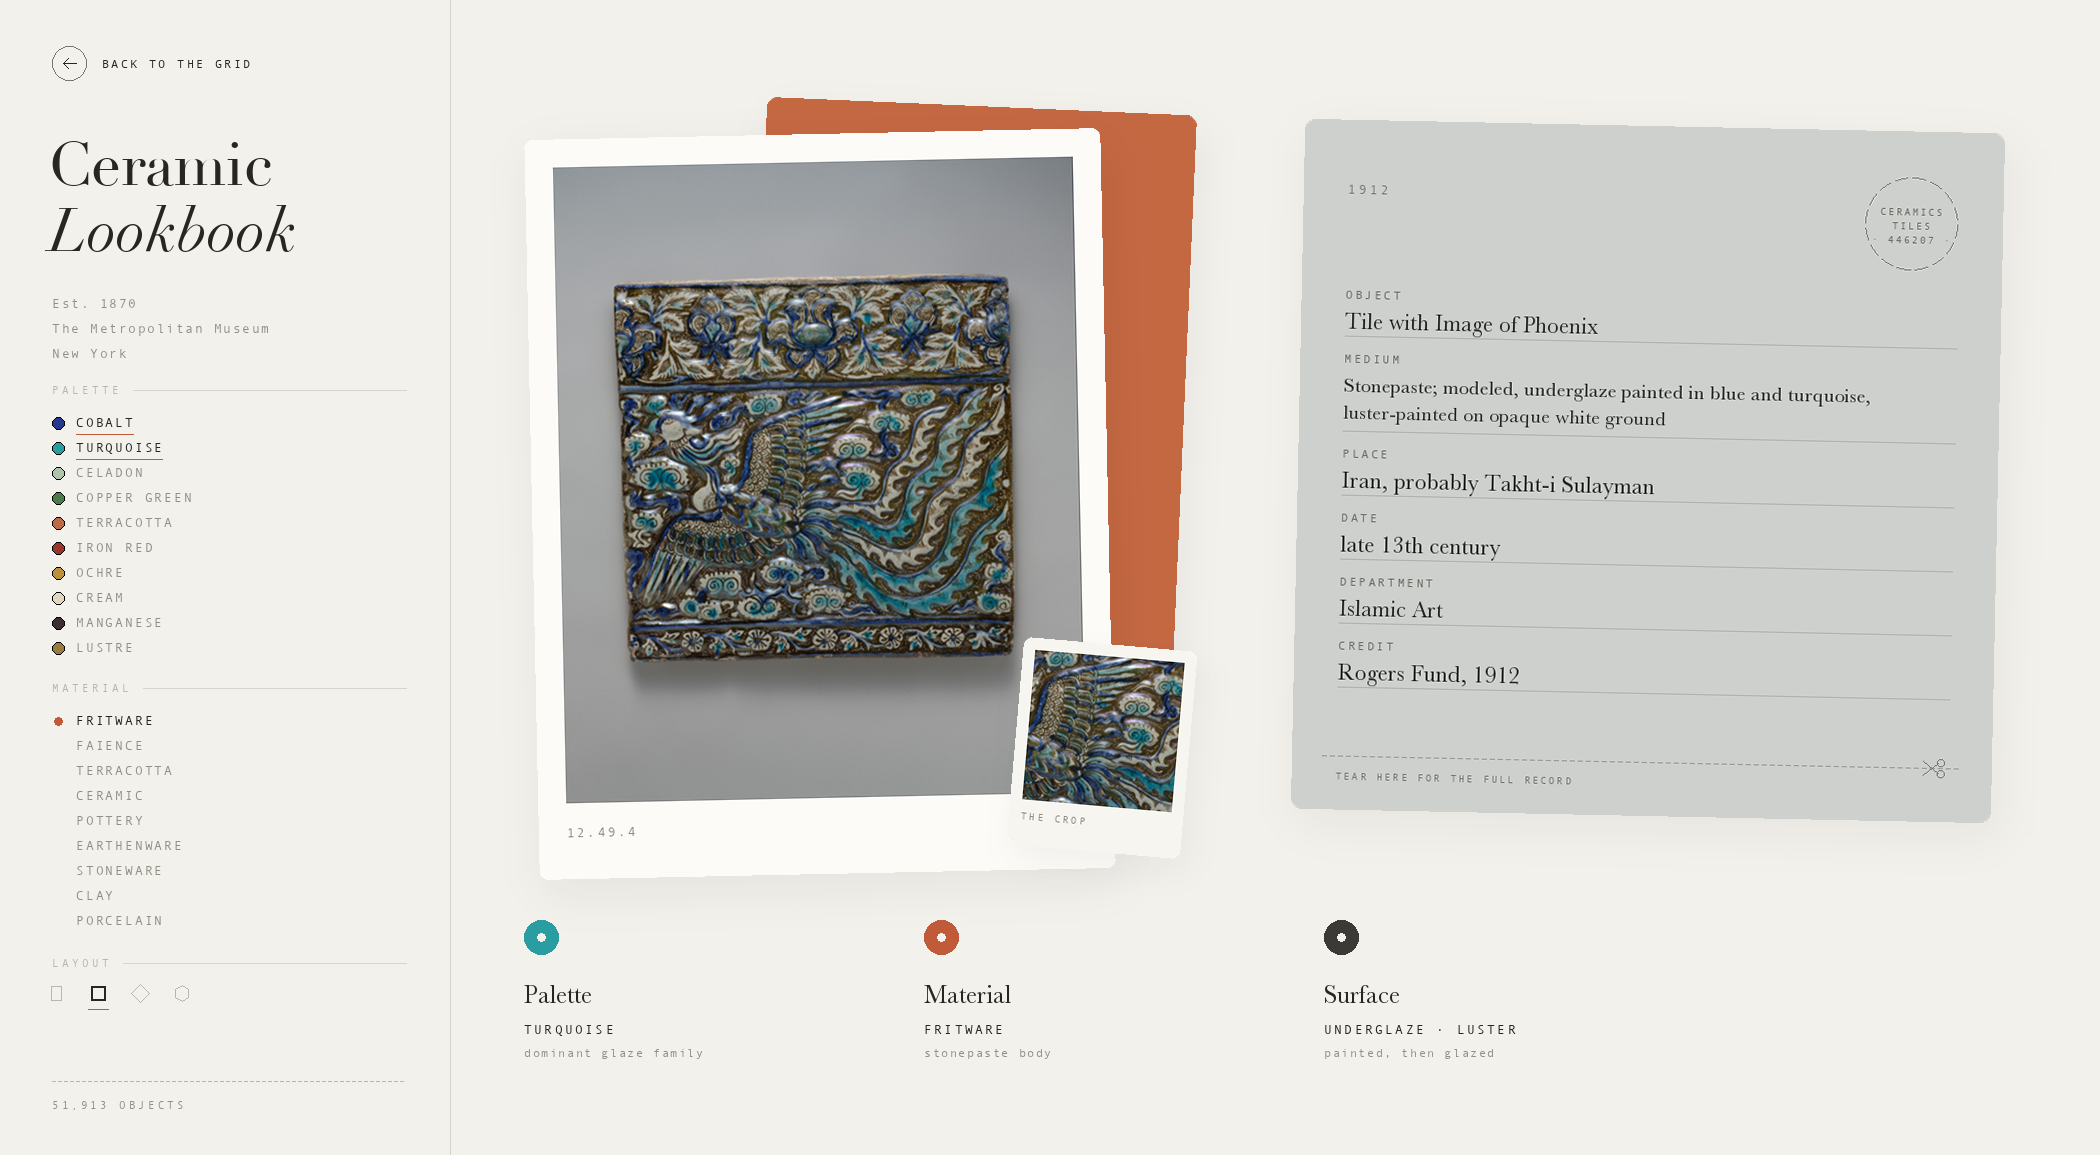
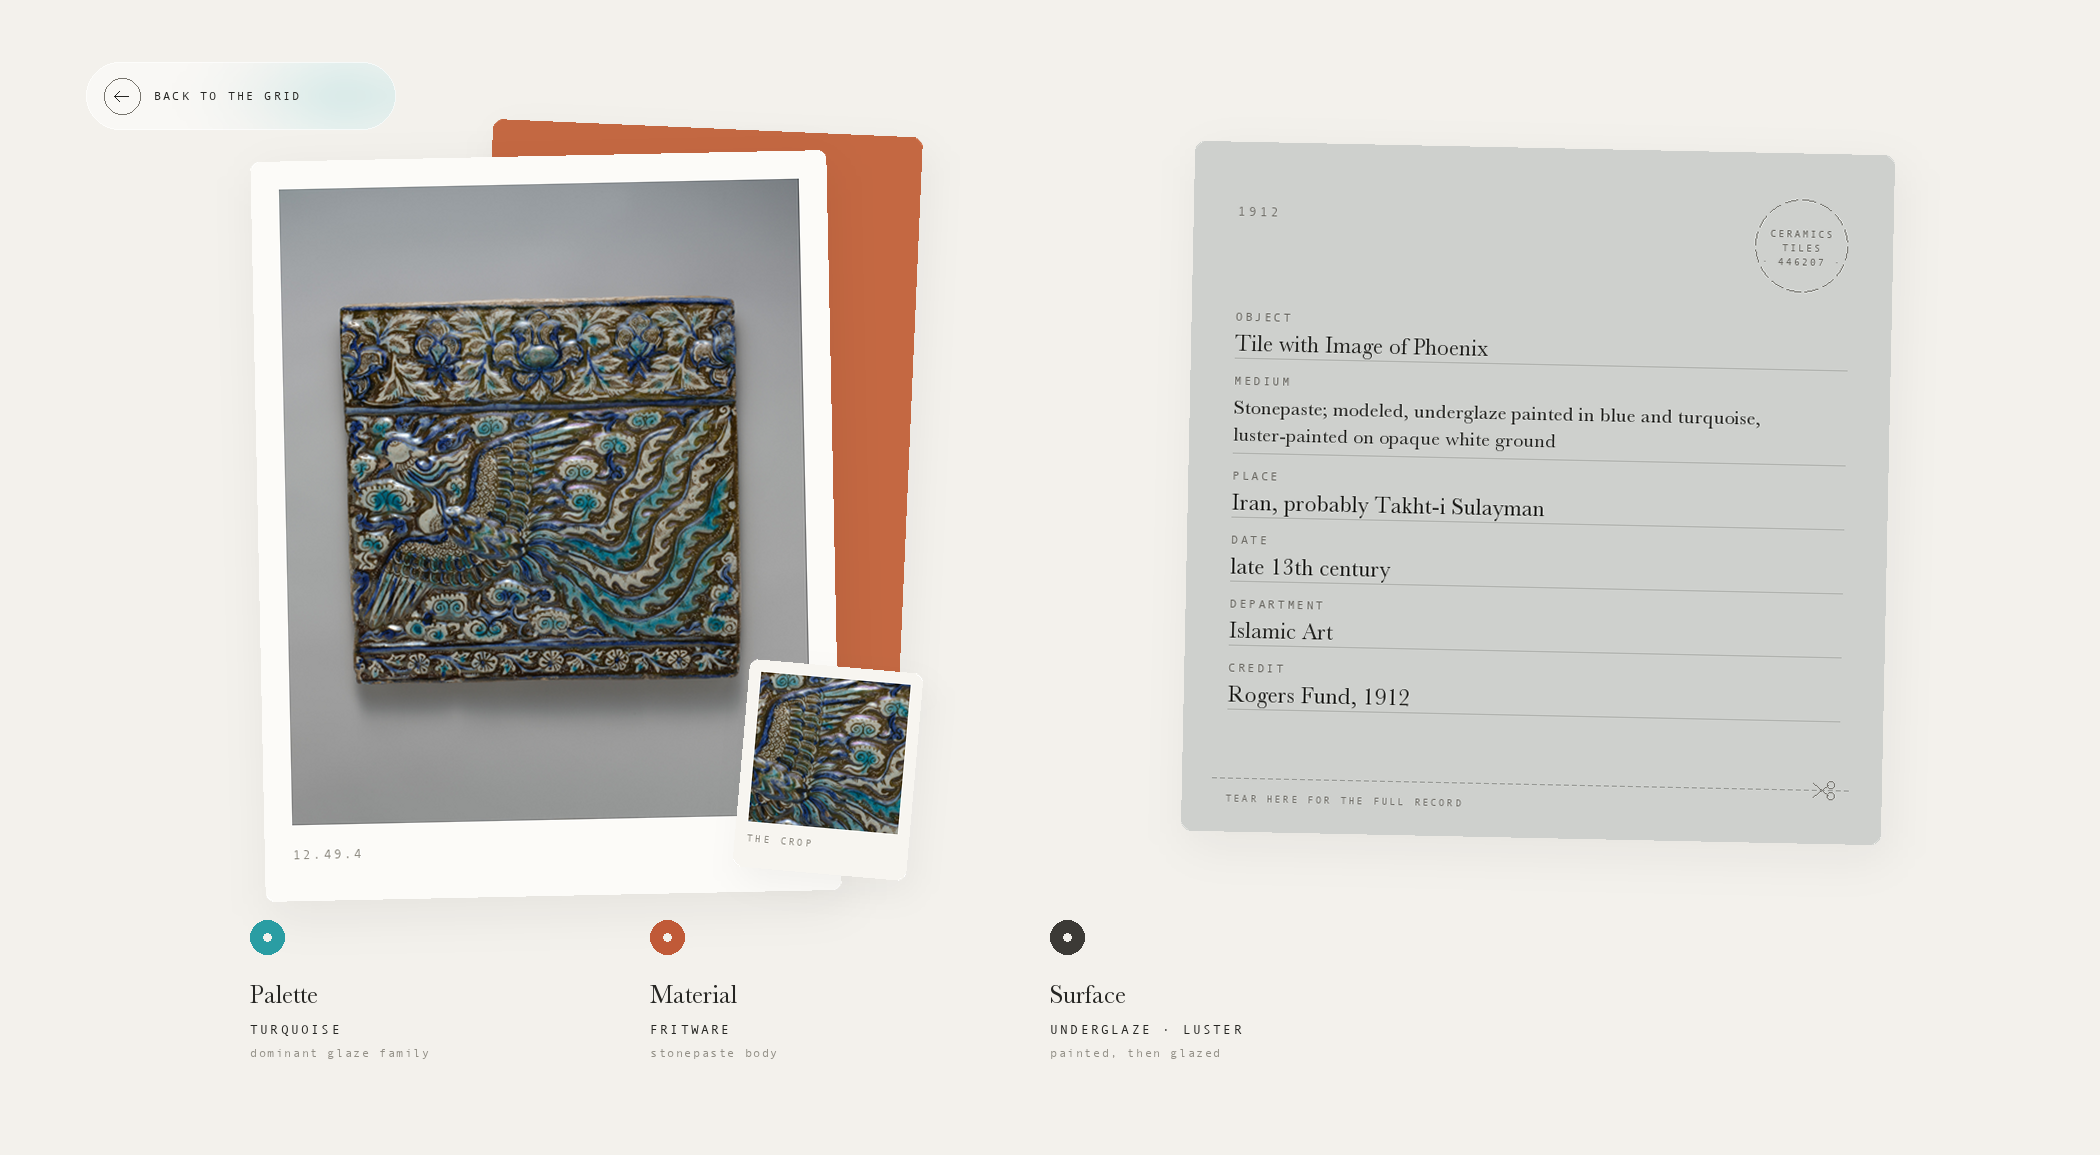
Replace the fixed sidebar with floating, scattered modules
Navigation is now frosted panels placed asymmetrically over the grid — a
title module, a staggered cluster of palette cards, material, layout and
sort modules — rather than a docked rail.

This is also what finally lets chrome sit on the imagery. The earlier
attempt used a flat dark scrim and went muddy, because a scrim only dims a
busy mosaic, it does not quiet it. A heavy backdrop blur does, by destroying
the high-frequency detail that made the field noisy. Blur, not opacity, is
the mechanism.

Each palette card carries a diffuse bloom of its own glaze colour, so the
filter is a cloud of the pigment rather than a swatch beside a word. Bloom
intensity is luminance-compensated or the pale families — cream, celadon,
lustre — vanish into the panel while cobalt and manganese shout.

The palette cards deliberately show no counts. Colour extraction is stage 4
and has not run, and inventing plausible numbers is how a mockup starts
lying. The material module shows real stage 1 counts from mine_summary.json.
An earlier draft of this commit had fabricated palette counts in it; they
are gone.

The detail view drops its sidebar for a floating back pill and shifts left
into the freed space.

diff --git a/pipeline/preview.py b/pipeline/preview.py
@@ -87,6 +87,9 @@ def font(kind, size):
             return ImageFont.truetype(SUP + "Baskerville.ttc", size)
         if kind == "serif-italic":
             return ImageFont.truetype(SUP + "Baskerville.ttc", size, index=1)
+        if kind == "sans":
+            return ImageFont.truetype("/System/Library/Fonts/Helvetica.ttc",
+                                      size)
         if kind == "display":
             return ImageFont.truetype(SUP + "Didot.ttc", size)
         if kind == "display-italic":
@@ -162,6 +165,159 @@ def extract_images(dest):
     d = os.path.join(dest, "resize_crops")
     return [os.path.join(d, n) for n in sorted(os.listdir(d))
             if n.endswith(".png")]
+
+
+# --- floating modules --------------------------------------------------------
+# The chrome is a set of frosted panels scattered over the grid rather than a
+# fixed rail. This is what finally lets chrome sit ON the imagery: an earlier
+# attempt used a flat dark scrim and went muddy, because a scrim only dims a
+# busy mosaic -- it does not quiet it. A heavy backdrop blur does, by
+# destroying the high-frequency detail that made it noisy in the first place.
+
+def rounded_mask(size, radius):
+    m = Image.new("L", size, 0)
+    ImageDraw.Draw(m).rounded_rectangle([0, 0, size[0] - 1, size[1] - 1],
+                                        radius, fill=255)
+    return m
+
+
+def bloom(size, cx, cy, radius, rgb, peak=150):
+    """Diffuse radial colour cloud, the reference's signature."""
+    n = 48
+    g = Image.new("RGBA", (n, n), rgb + (0,))
+    px = g.load()
+    for yy in range(n):
+        for xx in range(n):
+            dx = (xx + .5) / n - cx
+            dy = (yy + .5) / n - cy
+            t = max(0.0, 1.0 - math.hypot(dx, dy) / radius)
+            px[xx, yy] = rgb + (int(peak * t * t),)
+    return g.resize(size, Image.BICUBIC).filter(
+        ImageFilter.GaussianBlur(size[0] / 14))
+
+
+def panel(canvas, box, radius=22, tint=235, blooms=()):
+    """Frosted glass over whatever the grid is showing underneath."""
+    x0, y0, x1, y1 = box
+    size = (x1 - x0, y1 - y0)
+    region = canvas.crop(box).convert("RGBA")
+    region = region.filter(ImageFilter.GaussianBlur(26))
+    region = Image.alpha_composite(
+        region, Image.new("RGBA", size, (250, 249, 246, tint)))
+    for rgb, cx, cy, r, peak in blooms:
+        region = Image.alpha_composite(region,
+                                       bloom(size, cx, cy, r, rgb, peak))
+    mask = rounded_mask(size, radius)
+    canvas.paste(region, (x0, y0), mask)
+    edge = Image.new("RGBA", size, (0, 0, 0, 0))
+    ImageDraw.Draw(edge).rounded_rectangle(
+        [0, 0, size[0] - 1, size[1] - 1], radius,
+        outline=(255, 255, 255, 165), width=1)
+    canvas.alpha_composite(edge, (x0, y0))
+    return ImageDraw.Draw(canvas, "RGBA")
+
+
+def fitted(d, text, kind, size, max_w, floor=15):
+    """Largest size at or below `size` that fits `max_w`."""
+    while size > floor:
+        f = font(kind, size)
+        if d.textlength(text, font=f) <= max_w:
+            return f
+        size -= 1
+    return font(kind, floor)
+
+
+def centred(d, cx, y, text, f, fill, track=0.0):
+    w = tracked_w(d, text, f, track) if track else d.textlength(text, font=f)
+    if track:
+        tracked(d, (cx - w / 2, y), text, f, fill, track)
+    else:
+        d.text((cx - w / 2, y), text, font=f, fill=fill)
+
+
+def load_counts():
+    """Real per-material counts from stage 1, never invented."""
+    try:
+        with open(os.path.join(HERE, "data", "mine_summary.json")) as f:
+            return json.load(f)["by_type"]
+    except Exception:
+        return {}
+
+
+def draw_float_chrome(canvas, W, H):
+    """Scattered, modular navigation. Nothing is docked to an edge."""
+    # --- title module ---
+    box = (86, 74, 566, 286)
+    d = panel(canvas, box, 24, 232,
+              blooms=[((42, 157, 163), .78, .28, .62, 120)])
+    d.text((122, 106), "Ceramic", font=font("display", 44), fill=INK)
+    d.text((124, 154), "Lookbook", font=font("display-italic", 44), fill=INK)
+    total = sum(load_counts().values()) or 51913
+    tracked(d, (122, 222), f"{total:,} OBJECTS  ·  OPEN ACCESS",
+            font("mono", 12), (108, 106, 100), 2.0)
+    tracked(d, (122, 246), "THE METROPOLITAN MUSEUM OF ART", font("mono", 12),
+            MUTED, 2.0)
+
+    # --- palette cluster: five across, two down ---
+    cw, chh, gap = 158, 134, 15
+    x0, y0 = 86, 330
+    for i, (name, rgb) in enumerate(PALETTE):
+        # slight vertical stagger so the cluster reads as scattered modules
+        # rather than as a table
+        cx0 = x0 + (i % 5) * (cw + gap)
+        cy0 = y0 + (i // 5) * (chh + gap) + (10 if i % 2 else 0)
+        on = i in (0, 1)
+        # pale families need a stronger bloom to register at all
+        lum = (rgb[0] * .299 + rgb[1] * .587 + rgb[2] * .114) / 255
+        peak = int((168 if on else 124) * (1 + 0.75 * lum))
+        d = panel(canvas, (cx0, cy0, cx0 + cw, cy0 + chh), 18,
+                  242 if on else 226,
+                  blooms=[(rgb, .5, .33, .60, peak)])
+        mid = cx0 + cw // 2
+        label = name.title()
+        centred(d, mid, cy0 + 78, label,
+                fitted(d, label, "serif", 23, cw - 26), INK)
+        if on:
+            d.ellipse([cx0 + cw - 26, cy0 + 13, cx0 + cw - 14, cy0 + 25],
+                      fill=ACCENT)
+    # No per-family counts: colour extraction is stage 4 and has not run.
+    # Inventing plausible numbers for a preview is how a mockup starts lying.
+
+    # --- material module ---
+    box = (W - 466, 74, W - 86, 560)
+    d = panel(canvas, box, 24, 234,
+              blooms=[((188, 106, 72), .24, .82, .66, 104)])
+    tracked(d, (W - 430, 108), "MATERIAL", font("mono", 11), MUTED, 3.0)
+    counts = load_counts()
+    yy = 148
+    for mat in MATERIALS:
+        on = mat == "fritware"
+        if on:
+            d.ellipse([W - 432, yy + 7, W - 422, yy + 17], fill=ACCENT)
+        d.text((W - 402, yy), mat.title(), font=font("serif", 22),
+               fill=INK if on else (128, 126, 120))
+        n = counts.get(mat)
+        if n:
+            txt = f"{n:,}"
+            w = tracked_w(d, txt, font("mono", 12), 1.6)
+            tracked(d, (W - 118 - w, yy + 8), txt, font("mono", 12),
+                    MUTED, 1.6)
+        yy += 43
+
+    # --- layout module ---
+    box = (W - 466, 596, W - 200, 742)
+    d = panel(canvas, box, 20, 232,
+              blooms=[((120, 130, 150), .7, .7, .6, 92)])
+    tracked(d, (W - 430, 626), "LAYOUT", font("mono", 11), MUTED, 3.0)
+    draw_layout_dial(d, W - 428, 674, active=1)
+
+    # --- sort module, small ---
+    box = (86, 640, 372, 748)
+    d = panel(canvas, box, 20, 232,
+              blooms=[((186, 143, 62), .8, .35, .6, 96)])
+    tracked(d, (118, 668), "SORTED BY", font("mono", 11), MUTED, 3.0)
+    d.text((118, 692), "Hue", font=font("serif", 26), fill=INK)
+    tracked(d, (176, 702), "· then lightness", font("mono", 12), MUTED, 1.4)
 
 
 # --- chrome ------------------------------------------------------------------
@@ -328,7 +484,7 @@ def draw_detail(args):
         f_v = font("mono", 12)
         tracked(bd, (26, 500), "THE METROPOLITAN MUSEUM OF ART", f_v,
                 (255, 236, 220, 210), 2.2)
-        drop(canvas, back, (742, 96), angle=-2.5)
+        drop(canvas, back, (468, 118), angle=-2.5)
 
         # --- the plate: image tipped onto a paper mount ---
         pw = 520
@@ -340,7 +496,7 @@ def draw_detail(args):
                 font("mono", 13), MUTED, 2.2)
         # No "OPEN ACCESS" here: the stamp on the catalogue card already
         # says it, and the crop chip overlaps this corner.
-        drop(canvas, mount, (524, 128), angle=1.2, blur=22, alpha=64)
+        drop(canvas, mount, (250, 150), angle=1.2, blur=22, alpha=64)
 
         # --- the crop tile: what you clicked in the grid ---
         sw = swatch.resize((150, 150), Image.LANCZOS)
@@ -348,7 +504,7 @@ def draw_detail(args):
         chip.paste(sw, (12, 12))
         cd = ImageDraw.Draw(chip)
         tracked(cd, (12, 172), "THE CROP", font("mono", 10), MUTED, 2.4)
-        drop(canvas, chip, (1006, 636), angle=-5, blur=16, alpha=54)
+        drop(canvas, chip, (732, 658), angle=-5, blur=16, alpha=54)
 
     # --- catalogue card ---
     cw, ch = 700, 690
@@ -395,7 +551,7 @@ def draw_detail(args):
     tracked(d, (44, ch - 40), "TEAR HERE FOR THE FULL RECORD",
             font("mono", 10), (120, 118, 112), 2.2)
     scissors(d, cw - 60, ch - 54, (120, 118, 112))
-    drop(canvas, card, (1290, 118), angle=-1.2, blur=22, alpha=60)
+    drop(canvas, card, (1180, 140), angle=-1.2, blur=22, alpha=60)
 
     # --- three attribute blocks, the reference's info row ---
     d2 = ImageDraw.Draw(canvas, "RGBA")
@@ -405,7 +561,7 @@ def draw_detail(args):
                "stonepaste body"),
               ((60, 58, 54), "Surface", SUBJECT["surface"].upper(),
                "painted, then glazed")]
-    bx = 524
+    bx = 250
     for rgb, head, val, note in blocks:
         d2.ellipse([bx, 920, bx + 34, 954], fill=rgb)
         d2.ellipse([bx + 13, 933, bx + 21, 941], fill=(243, 241, 236))
@@ -414,7 +570,15 @@ def draw_detail(args):
         tracked(d2, (bx, 1046), note, font("mono", 12), MUTED, 1.6)
         bx += 400
 
-    draw_sidebar(canvas, args.sidebar, H, detail=True)
+    # Floating back pill instead of a docked rail -- same modular language
+    # as the grid view.
+    d3 = panel(canvas, (86, 62, 396, 130), 34, 236,
+               blooms=[((42, 157, 163), .84, .5, .6, 96)])
+    d3.ellipse([104, 78, 140, 114], outline=(120, 117, 110), width=1)
+    d3.line([114, 96, 128, 96], fill=INK, width=1)
+    d3.line([114, 96, 119, 91], fill=INK, width=1)
+    d3.line([114, 96, 119, 101], fill=INK, width=1)
+    tracked(d3, (154, 89), "BACK TO THE GRID", font("mono", 12), INK, 2.2)
     canvas.convert("RGB").save(args.out, quality=95)
     print(f"\n  wrote {args.out}  ({W}x{H})")
 
@@ -423,7 +587,7 @@ def main():
     ap = argparse.ArgumentParser()
     ap.add_argument("--view", choices=("grid", "detail"), default="grid")
     ap.add_argument("--tile", type=int, default=55)
-    ap.add_argument("--cols", type=int, default=30)
+    ap.add_argument("--cols", type=int, default=38)
     ap.add_argument("--rows", type=int, default=21)
     ap.add_argument("--sidebar", type=int, default=450)
     ap.add_argument("--hue-start", type=float, default=185)
@@ -476,15 +640,15 @@ def main():
             step = len(tiles) / want
             tiles = [tiles[int(i * step)] for i in range(want)]
 
-        W = args.sidebar + args.cols * args.tile
+        W = args.cols * args.tile
         H = args.rows * args.tile
-        canvas = Image.new("RGB", (W, H), BONE)
+        canvas = Image.new("RGBA", (W, H), BONE + (255,))
         for i, t in enumerate(tiles):
-            canvas.paste(t["img"], (args.sidebar + (i % args.cols) * args.tile,
+            canvas.paste(t["img"], ((i % args.cols) * args.tile,
                                     (i // args.cols) * args.tile))
 
-        draw_sidebar(canvas, args.sidebar, H)
-        draw_stamp(canvas, W - 128, H - 118)
+        draw_float_chrome(canvas, W, H)
+        canvas = canvas.convert("RGB")
         canvas.save(args.out, quality=95)
         print(f"\n  wrote {args.out}  ({W}x{H})")
 

diff --git a/PLAN.md b/PLAN.md
@@ -579,28 +579,39 @@ over *Stonepaste; polychrome painted*, `CULTURE` over *Iran, Kashan*.
 > SIL OFL. Self-host the woff2 files **in the repo**. A Google Fonts link is
 > the same external-host dependency that killed the 2019 site.
 
-**The load-bearing rule: chrome never floats over the imagery.**
+**Navigation is floating modules, not a rail.**
 
-The first attempt put the rails over the grid behind a dark scrim, and it was
-muddy and illegible — a delicate paper interface cannot survive sitting on
-51,913 saturated tiles. So the chrome gets its own paper plane: a bone
-sidebar, a single hairline rule, and the grid full-bleed beside it. The
-reference works the same way, and it is why it works.
+No docked sidebar. The chrome is a set of frosted panels scattered over the
+grid — a title module, a cluster of palette cards, a material module, a
+layout module, a sort module — placed asymmetrically and staggered so the
+cluster reads as scattered objects rather than as a table.
+
+This took two attempts to get right, and the failure is worth recording. The
+first version put the rails over the grid behind a **flat dark scrim**, and it
+went muddy: a scrim only *dims* a busy mosaic, it does not quiet it, so 51,913
+competing details still fought the type. The fix is a **heavy backdrop blur**,
+which destroys the high-frequency detail that made the field noisy in the
+first place. Blur, not opacity, is what lets a delicate interface sit directly
+on a maximalist image.
+
+**Each palette module carries a diffuse bloom of its own glaze colour.** The
+filter is not a swatch beside a word — the card *is* a soft cloud of the
+pigment. Bloom intensity is compensated for luminance, or the pale families
+(cream, celadon, lustre) disappear into the panel while cobalt and manganese
+shout.
 
 **Controls**
 
-- Filters are lists, not chips. Active is an ink-coloured item with a small
-  filled terracotta dot or a hairline terracotta underline; inactive is muted
-  grey. Nothing gets a button.
-- Palette swatches are small filled circles in the glaze colour — the filter
-  is literally a row of pigments.
-- The layout wheel is drawn as **shapes rather than words**, in the same
-  hairline-outline idiom as the stamp: ▭ ■ ◆ ⬡.
-- Section headers are faint tracked caps with a hairline rule running to the
-  margin.
-- A perforation and a tracked-caps count close the sidebar, the way a receipt
-  tears off.
-- A dashed rubber stamp marks the collection as Open Access.
+- Filters are lists and cards, never chips or buttons. Active is ink-coloured
+  with a small terracotta dot; inactive is muted grey.
+- The layout wheel is drawn as **shapes rather than words** — ▭ ■ ◆ ⬡.
+- Section headers are faint tracked caps.
+- Serif for names, tracked mono for labels and counts.
+
+**Never invent data, even in a mockup.** The palette modules deliberately
+carry *no* counts: colour extraction is Stage 4 and has not run, and plausible
+made-up numbers are how a mockup starts lying. The material module shows real
+Stage 1 counts, read from `mine_summary.json`.
 
 **Detail view** — the object card is a catalogue card: monospace field labels
 over serif values, a dashed rule, an accession stamp bearing the object ID,
